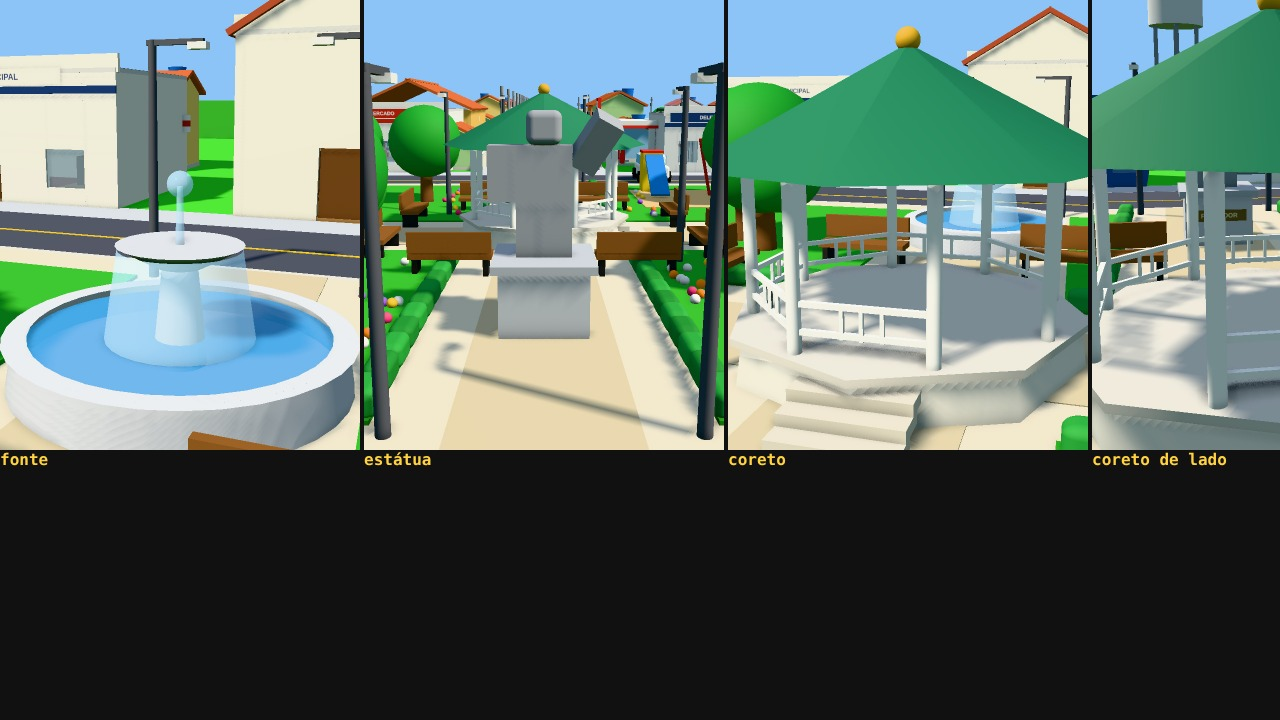
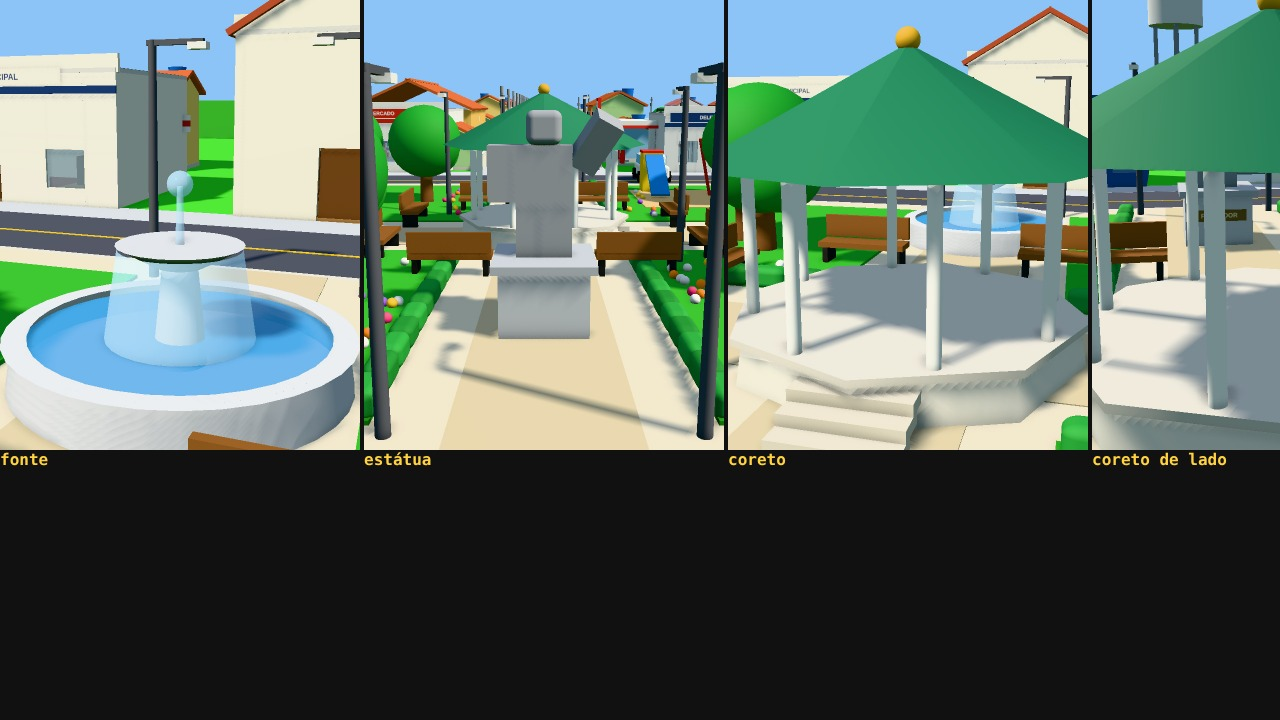
Coreto sem cercas
Claude-Session: https://claude.ai/code/session_01L9V3oGiK3wXogPFqZJY4DD

diff --git a/src/motor/cidade.js b/src/motor/cidade.js
@@ -99,10 +99,7 @@ export const PREDIOS = {
     const p2 = placaTexto('R$ 5,99', 2.3, 0.7, { fundo: '#111', corTexto: '#ffd23f', emissivo: true }); p2.position.set(0, 7.2, 0.21); tot.add(p2);
     tot.position.set(9.5, 0, 2); g.add(tot); return g; },
   coreto: (o = {}) => { const g = grupo([cilindro(5, 5.2, 1.2, '#e9e6dc', { pos: [0, 0.6, 0], seg: 8 }), cilindro(5.3, 5.3, 0.2, '#d8d4cc', { pos: [0, 1.25, 0], seg: 8 })]);
-    for (let i = 0; i < 8; i++) { const a = (i + 0.5) / 8 * Math.PI * 2; g.add(cilindro(0.18, 0.18, 4.5, '#ffffff', { pos: [Math.sin(a) * 4.5, 3.5, Math.cos(a) * 4.5] }));
-      if (i !== 0) { const m2 = a + Math.PI / 8, r2 = 4.5 * Math.cos(Math.PI / 8);   // grade entre esta coluna e a próxima (tangente ao círculo)
-        for (const y of [1.9, 2.6]) g.add(caixa(3.3, 0.14, 0.14, '#ffffff', { pos: [Math.sin(m2) * r2, y, Math.cos(m2) * r2], rot: [0, m2 / RAD, 0] }));
-        for (let k = -1; k <= 1; k++) { const mk = m2 + k * 0.12; g.add(caixa(0.1, 0.8, 0.1, '#ffffff', { pos: [Math.sin(mk) * r2 * 1.005, 2.2, Math.cos(mk) * r2 * 1.005] })); } } }
+    for (let i = 0; i < 8; i++) { const a = (i + 0.5) / 8 * Math.PI * 2; g.add(cilindro(0.18, 0.18, 4.5, '#ffffff', { pos: [Math.sin(a) * 4.5, 3.5, Math.cos(a) * 4.5] })); }   // colunas (sem cercas)
     const tel = cilindro(0, 6.2, 3.2, o.cor || '#2e7d5b', { pos: [0, 7.3, 0], seg: 8 }); g.add(tel); g.add(esfera(0.35, '#e0b040', { pos: [0, 9.0, 0] }));
     for (let i = 0; i < 3; i++) g.add(caixa(3, 0.3, 0.9, '#dcd5c6', { pos: [0, 0.15 + i * 0.3, 5.9 - i * 0.6] })); return g; },
 };
